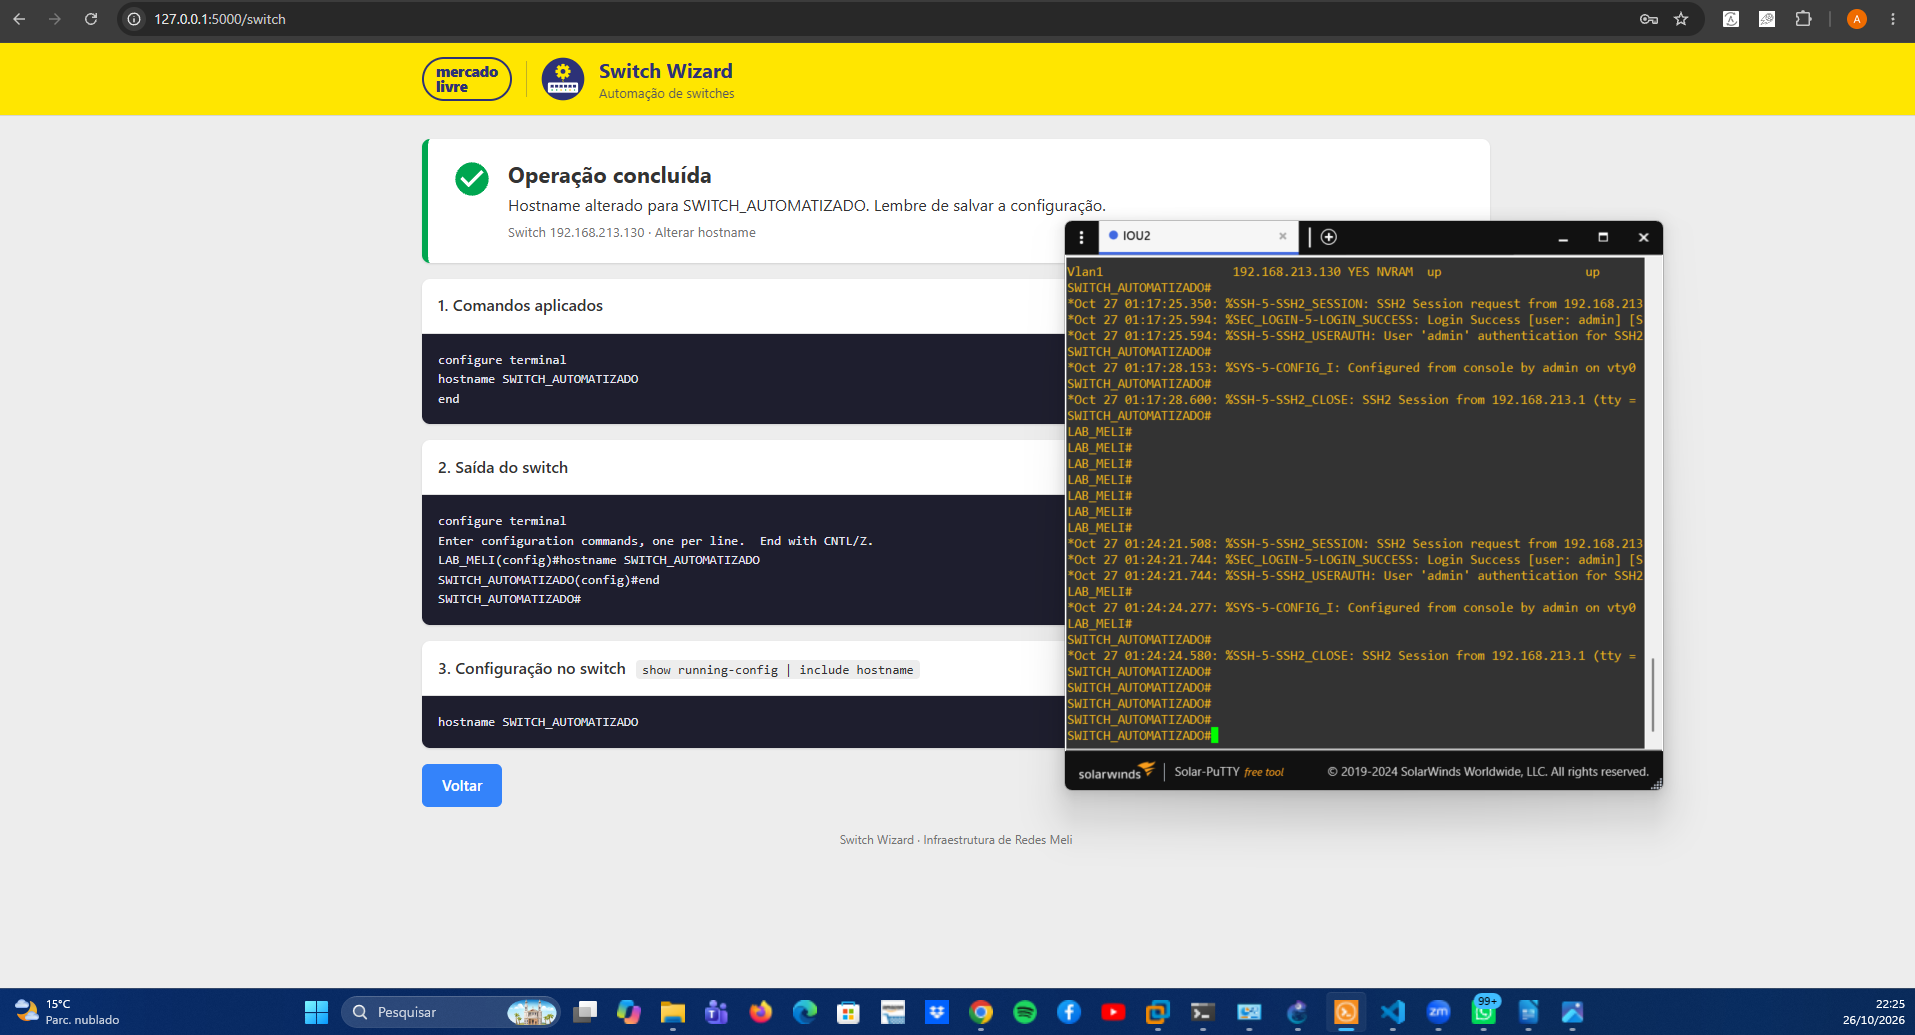
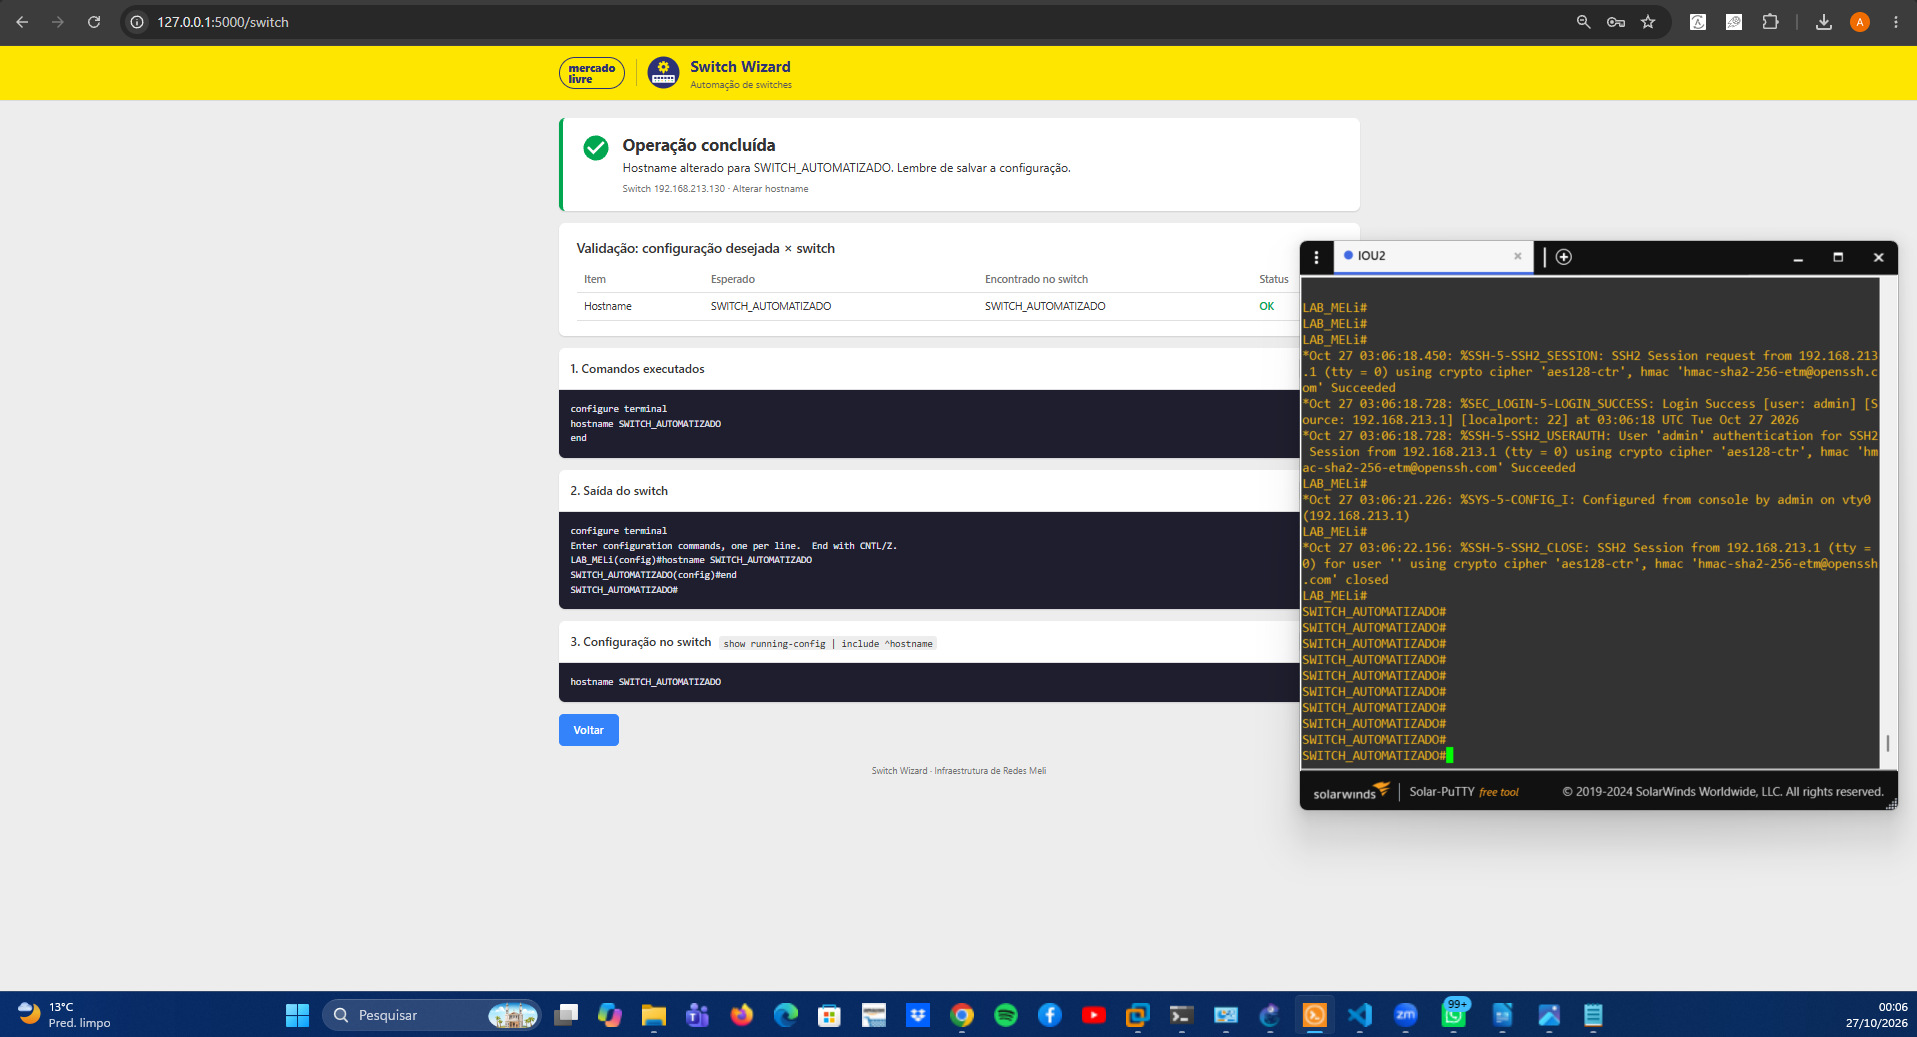
README and Part 1 evidence for the new features
- README: multi-VLAN creation, configuration validation, ASCII VLAN names,
  Part 1 section (GNS3 test environment, evidence table, backup location)
  and Part 2 section
- New evidence: GNS3 topology, VLANs created in one request, validation OK and
  divergence alert, hostname change, backup; old single-VLAN screenshots removed
- Backup file with the local username and password hash removed

diff --git a/README.md b/README.md
@@ -1,13 +1,20 @@
-# Switch Wizard
+# Challenge - Networking
 
 [![Quality Gate Status](https://sonarcloud.io/api/project_badges/measure?project=antoniomsousa_automacao_switches&metric=alert_status)](https://sonarcloud.io/summary/new_code?id=antoniomsousa_automacao_switches)
 
 Web frontend (Flask) to configure Cisco IOS switches over SSH (Netmiko):
 
-- Create a VLAN (ID + name)
+- Create several VLANs at once (ID + name per row), in a single configuration session
 - Change the hostname
 - Save the configuration to NVRAM (`write memory`)
 - Download a backup of the running-config (includes the VLANs from `vlan.dat`)
+- Validate the switch against the desired configuration and alert on any divergence
+
+In the **Criar VLANs** card, **+ Adicionar VLAN** adds a row, **×** removes one, and **Preencher padrão (10, 20, 50)** fills in the challenge's VLANs. Empty rows are ignored, and repeated or invalid IDs are rejected, with the line number, before connecting to the switch (up to 50 VLANs per request).
+
+After every change, the app reads the configuration back from the switch (`show vlan brief`, `show running-config | include ^hostname`) and compares it with what was requested. The **Validar configuração** button compares the whole switch with the standard configuration of the challenge: VLAN 10 `VLAN_DADOS`, VLAN 20 `VLAN_VOZ`, VLAN 50 `VLAN_SEGURANCA` and hostname `SWITCH_AUTOMATIZADO`. Any difference is shown as a **"Configuração não padrão encontrada"** alert, listing each item with the expected and found values.
+
+VLAN names are converted to ASCII before they're sent: `VLAN_SEGURANÇA`, as written in the challenge, becomes `VLAN_SEGURANCA`. IOS VLAN names should be plain ASCII, since an accented character can be stored or echoed differently over SSH, which would break the validation.
 
 The interface is in Brazilian Portuguese.
 
@@ -20,6 +27,7 @@ app/
   __init__.py                       create_app(): creates the Flask app and registers the blueprints
   models/
     switch.py                       Model: Switch class (SSH session and commands on the switch)
+    compliance.py                   Model: standard configuration and desired vs. found comparison
     validation.py                   Model: VLAN, hostname and port rules
   controllers/
     switch_controller.py            Controller: / and /switch routes
@@ -37,6 +45,8 @@ tests/
   test_switch.py                    Tests of the actions against the simulated switch
   test_validation.py                Tests of the validation rules
   test_csrf.py                      Tests of the CSRF protection
+  test_vpn.py, fake_firewalls.py    Part 2: VPN automation tests against simulated firewall APIs
+vpn_ipsec/                          Part 2: IPsec VPN automation plan and scripts (see below)
 run.py                              Entry point
 ```
 
@@ -71,3 +81,55 @@ Automated tests (they start their own simulated switch on a free port):
 ```
 python -m pytest
 ```
+
+## Part 1: Switch Automation
+
+Tested against a Cisco switch emulated in GNS3: IOU L2 image, IOS XE 17.15, reached over SSH at 192.168.213.130.
+
+![GNS3 lab](ENTREGAVEIS_PT1/GNS3_RUNNING.png)
+
+Everything is in [ENTREGAVEIS_PT1/](ENTREGAVEIS_PT1/):
+
+| Deliverable | File |
+|---|---|
+| GNS3 lab running: Cloud1 connected to the IOU switch, Vlan1 at 192.168.213.130 | [GNS3_RUNNING.png](ENTREGAVEIS_PT1/GNS3_RUNNING.png) |
+| VLANs 10, 20 and 50 created in one request, validated, and listed in the switch CLI (`show vlan`) | [CRIA_VLANS.png](ENTREGAVEIS_PT1/CRIA_VLANS.png) |
+| Hostname changed to `SWITCH_AUTOMATIZADO`, validated, and the CLI prompt changing | [ALTERA_HOSTNAME.png](ENTREGAVEIS_PT1/ALTERA_HOSTNAME.png) |
+| Validation with an alert: VLAN 20 removed from the switch, reported as "Configuração não padrão encontrada" | [VLAN_NOK.png](ENTREGAVEIS_PT1/VLAN_NOK.png) |
+| Validation OK: the switch matches the standard configuration | [VALIDA_HOSTNAME.png](ENTREGAVEIS_PT1/VALIDA_HOSTNAME.png) |
+| Input validation in the browser (invalid VLAN ID and name) | [ERR_VLAN.png](ENTREGAVEIS_PT1/ERR_VLAN.png) |
+| Login failure alert | [ERR_LOGINSW.png](ENTREGAVEIS_PT1/ERR_LOGINSW.png) |
+| Configuration saved to NVRAM (`write memory`) | [SALVA_CFG.png](ENTREGAVEIS_PT1/SALVA_CFG.png) |
+| Backup download | [FUNC_BKP.png](ENTREGAVEIS_PT1/FUNC_BKP.png) |
+| **Backup file** (hostname and date/time in the name) | [SWITCH_AUTOMATIZADO_20261027_000901.cfg](ENTREGAVEIS_PT1/SWITCH_AUTOMATIZADO_20261027_000901.cfg) |
+
+In the backup file, the local username and its password hash were replaced by `<removed>` before publishing.
+
+## Part 2: IPsec VPN automation plan (FortiGate ↔ Palo Alto)
+
+The plan is in [vpn_ipsec/PLAN.md](vpn_ipsec/PLAN.md): parameters (WAN IPs, LANs, tunnel 169.255.1.0/30, phase 1/2 proposals), tools and APIs, automation steps, multi-vendor considerations, and the validation and alerting strategy.
+
+The same folder implements the plan:
+
+```
+vpn_ipsec/
+  PLAN.md                     The automation plan
+  params.yaml                 VPN parameters (single source of truth)
+  params.py                   Parameter validation and per-vendor proposal names
+  fortigate.py                FortiOS REST API client and objects
+  paloalto.py                 PAN-OS XML API client and objects
+  deploy.py                   plan / apply / validate, with backup, rollback and alerts
+  connectivity_test.py        Connectivity test through the tunnel
+  alerts.py                   Alerts (log, chat webhook, exit code)
+  configs/fortigate.conf      Example FortiOS CLI configuration
+  configs/paloalto.set        Example PAN-OS configuration (set format)
+```
+
+```
+python -m vpn_ipsec.deploy plan                       # validates params.yaml and lists every API call, no device access
+python -m vpn_ipsec.deploy apply                      # needs FGT_TOKEN, PANOS_API_KEY and VPN_PSK
+python -m vpn_ipsec.deploy validate                   # read-only: configuration drift + tunnel status
+python -m vpn_ipsec.connectivity_test --site fortigate --remote-host 10.20.0.10
+```
+
+The tests in `tests/test_vpn.py` run the automation against in-memory FortiOS and PAN-OS APIs (`tests/fake_firewalls.py`).
